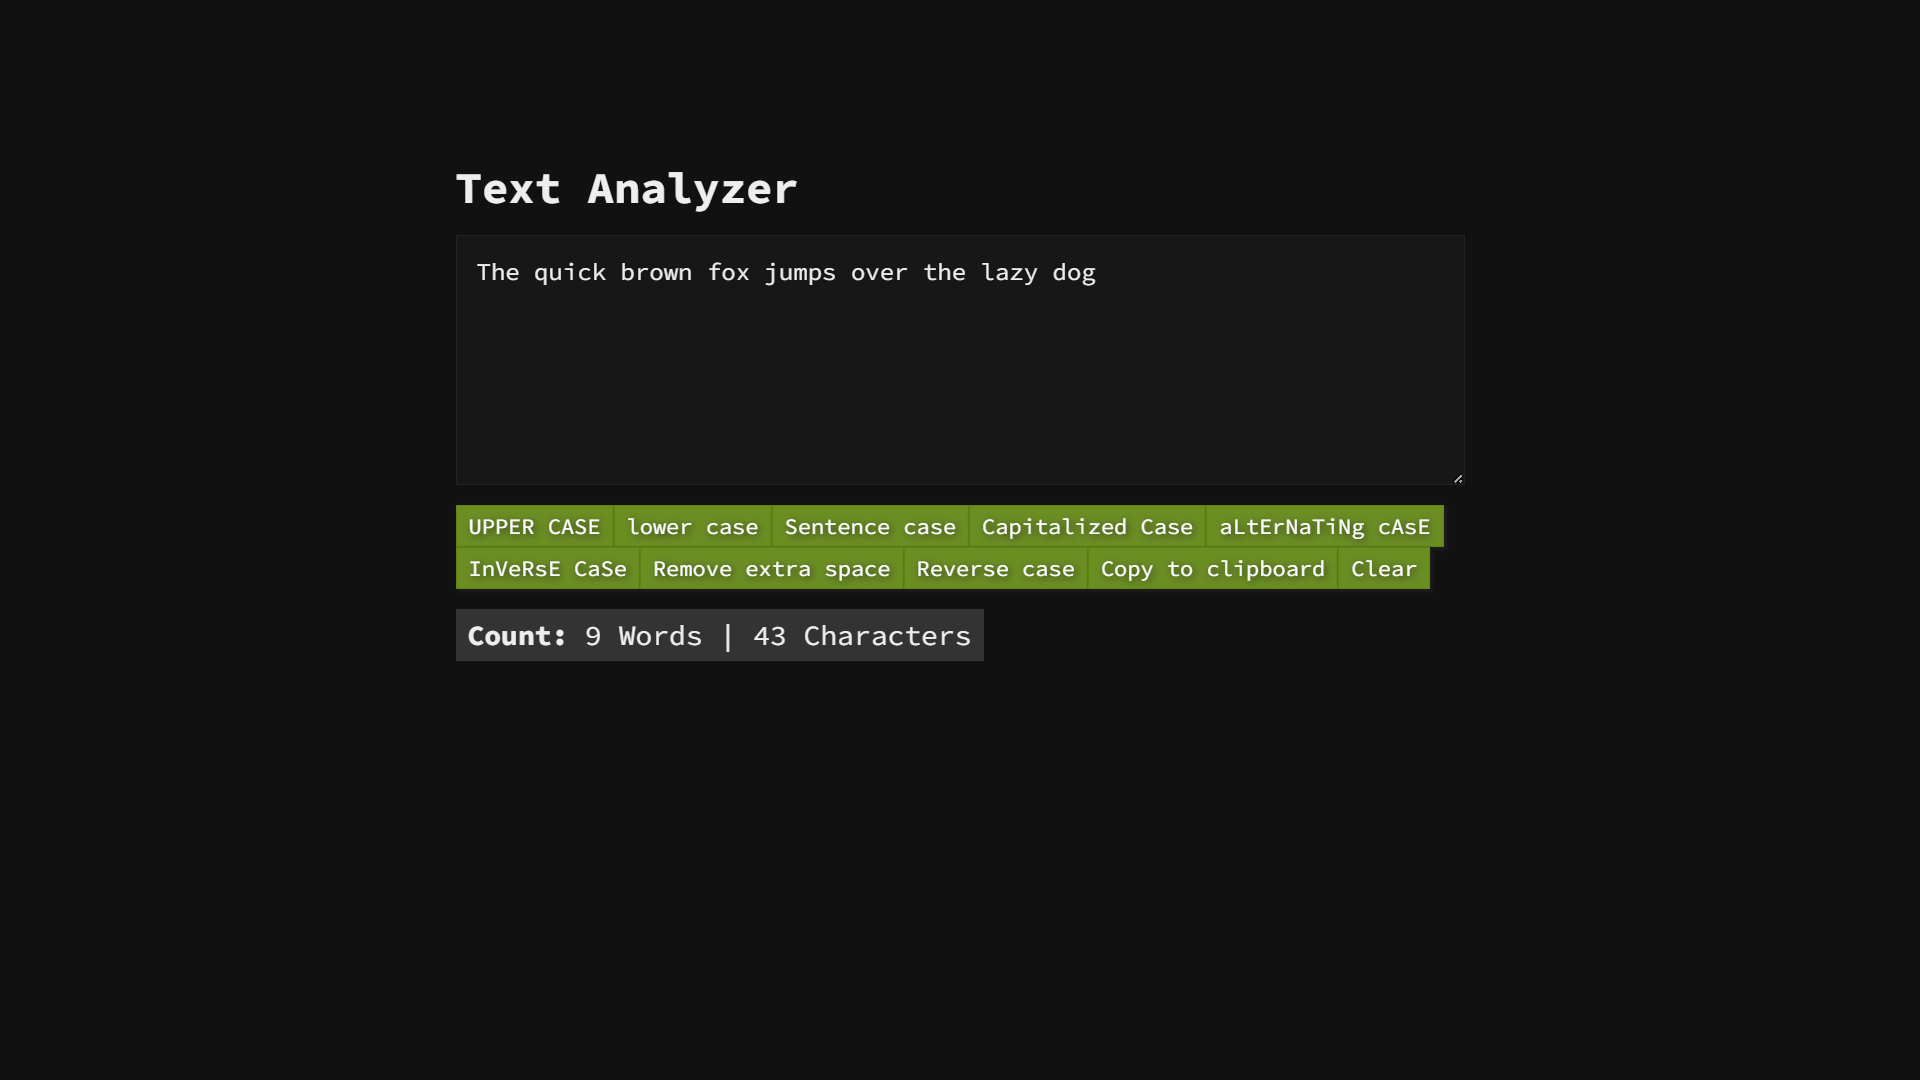
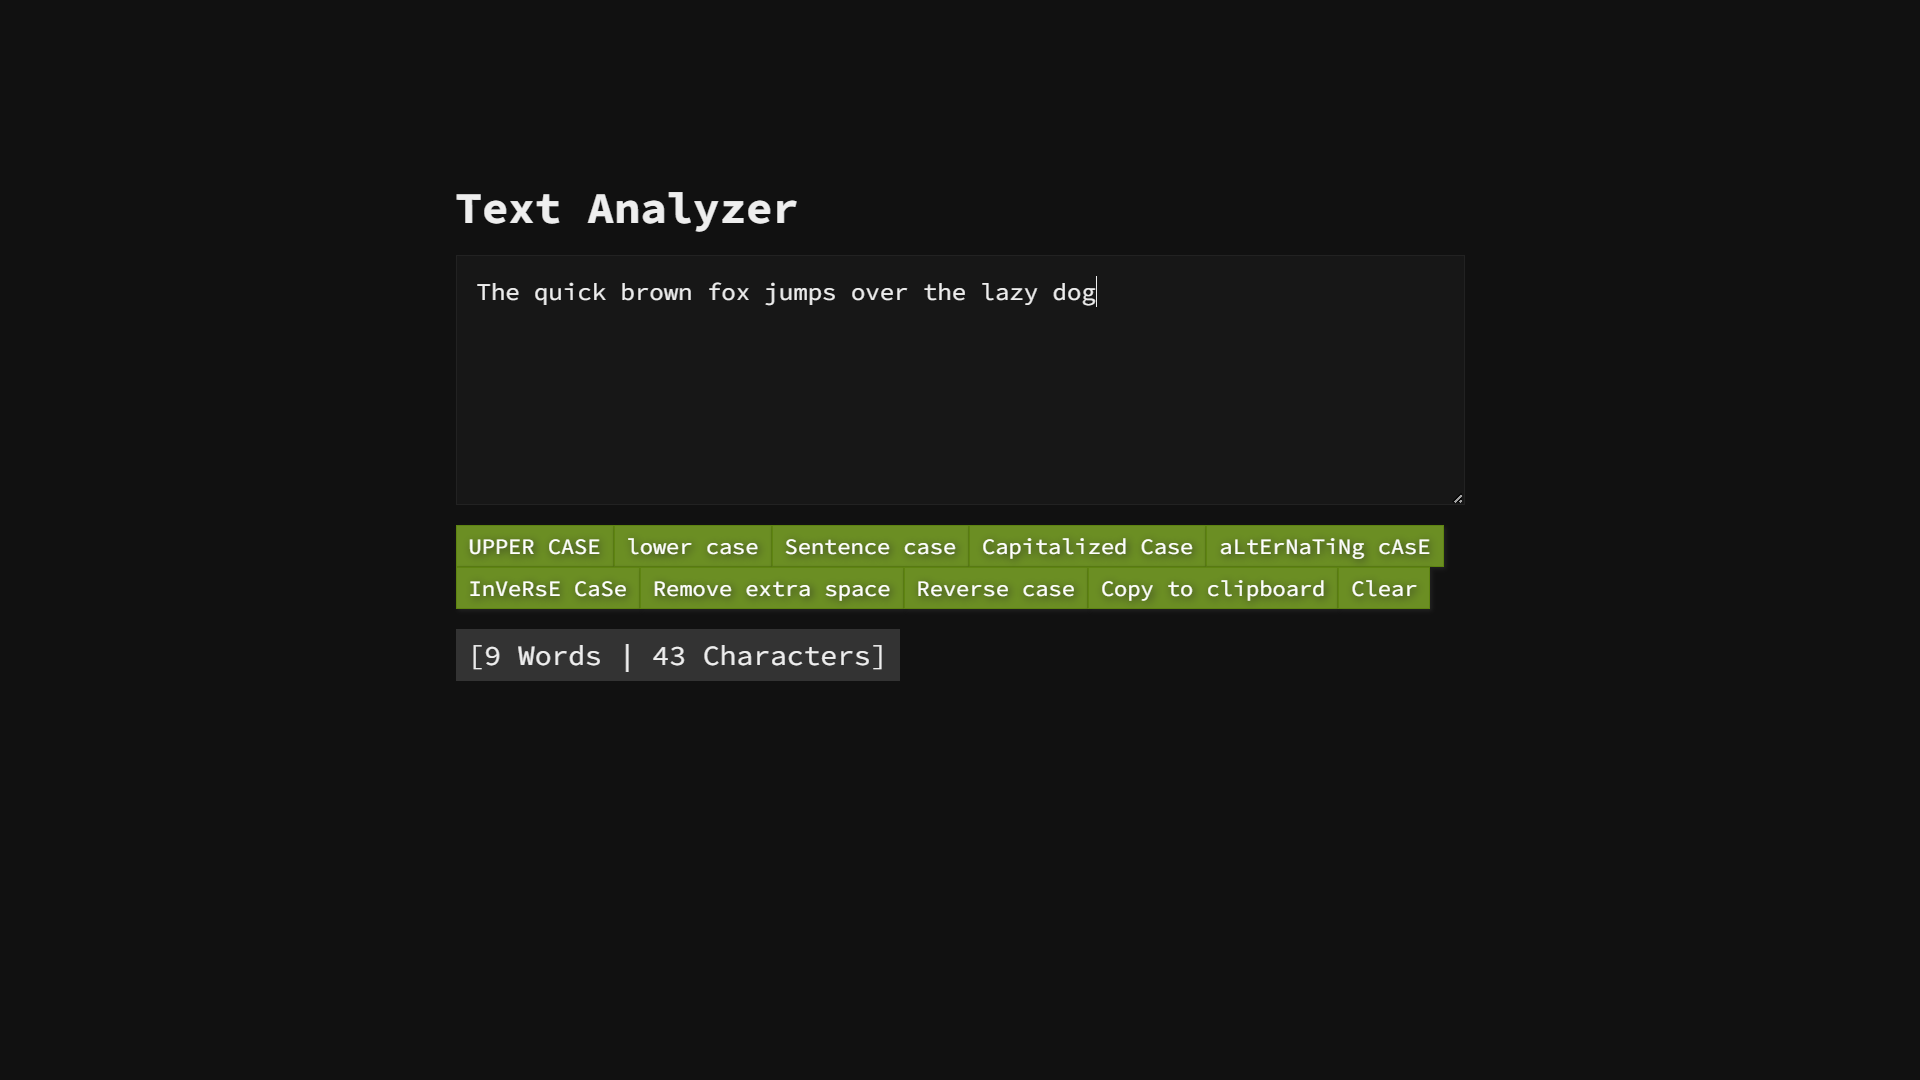
text analyzer project updated

Changed region(s): [[0.2188, 0.4583, 0.75, 0.6417], [0.2188, 0.1528, 0.4375, 0.2139], [0.25, 0.2444, 0.5938, 0.275]]

diff --git a/pages/text-analyzer.html b/pages/text-analyzer.html
@@ -88,7 +88,7 @@
             background: #5e8411;
         }
 
-        .textSummary {
+        .countBox {
             padding: 0.4rem 0.6rem;
             color: #eee;
             font-size: 1.4rem;
@@ -114,7 +114,7 @@
                 font-size: 1rem;
             }
 
-            .textSummary {
+            .countBox {
                 font-size: 1.1rem;
                 width: 100%;
             }
@@ -145,10 +145,9 @@
             <button onclick="handleClearText()">Clear</button>
         </div>
         <div>
-            <p class="textSummary">
-                <strong>Count: </strong>
-                <span id="wordCount">0 Words |</span>
-                <span id="charCount">0 Characters</span>
+            <p class="countBox">
+                [<span id="wordCount">0 Words |</span>
+                <span id="charCount">0 Characters</span>]
             </p>
         </div>
     </div>
